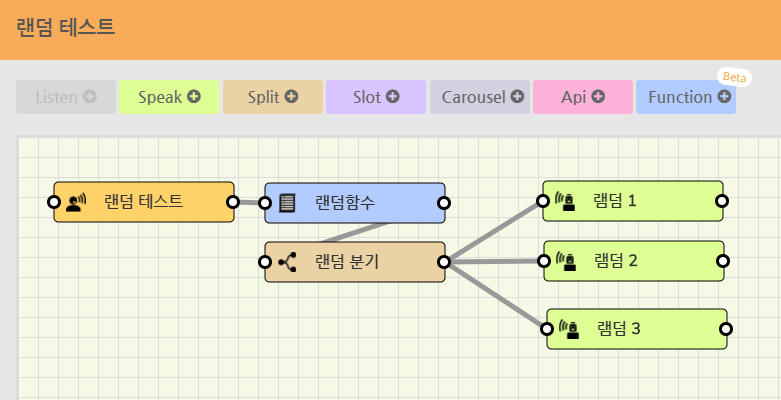
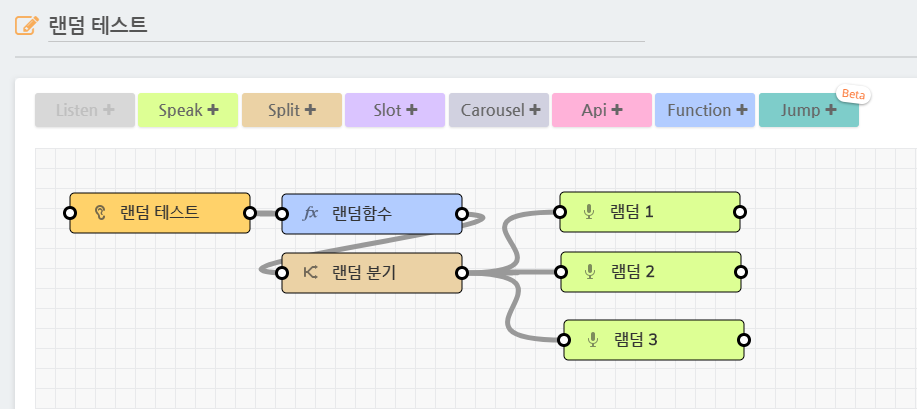
function 노드 이미지 교체

diff --git a/pages/danbeeDoc/chatflow_jump.md b/pages/danbeeDoc/chatflow_jump.md
@@ -83,7 +83,7 @@ Jump 노드에서 이동할 챗플로우 '제 이름은 아무개 입니다"를 
 
 '시작 챗플로우'에서 전달할 파라미터를 받을 파라미터 역시 동일한 이름 'name'으로 설정합니다.
 
-(파라미터 명칭은 동일할 필요는 없습니다.)
+{% include note.html content="챗플로우간에 전달해 주고 받을 파라미터 명칭들은 동일할 필요는 없습니다." %}
 
 {% include image.html file="chatflow/Chatflow_jump_speak.png" max-width="900" caption="Listen 노드 설정" %}
 
